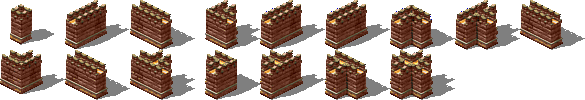
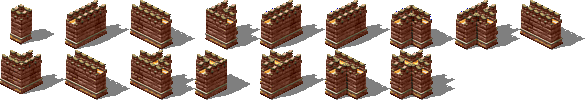
Animations Corrected

Changed region(s): [[0.3077, 0.51, 0.4615, 1.0]]

diff --git a/Base/Motor2D/MainDefense.cpp b/Base/Motor2D/MainDefense.cpp
@@ -25,14 +25,14 @@ bool MainDefense::Update(float dt)
 {
 	BROFILER_CATEGORY("Main Defense Update", Profiler::Color::SandyBrown);
 	
-	if (fromPlayer1 == true)
+	/*if (fromPlayer1 == true)
 	{
 		position = App->map->data.tower;
 	}
 	else
 	{
 		position = App->map->data.tower2;
-	}
+	}*/
 
 	if (fromPlayer1)
 	{
@@ -78,6 +78,8 @@ bool MainDefense::Update(float dt)
 	}
 	ChangeAnimation();
 
+	if (Current_Animation->Finished() == true)
+		Current_Animation = level1;
 
 	Building::Update(dt);
 
@@ -95,7 +97,7 @@ void MainDefense::CleanUp()
 void MainDefense::LoadAnimations(bool isPlayer1, string path)
 {
 	building = building->LoadAnimation(path.data(), (isPlayer1) ? "red_constructing" : "blue_constructing");
-	level1 = level1->LoadAnimation(path.data(), (isPlayer1) ? "red_idle" : "blue_idle");
+	level1 = level1->LoadAnimation(path.data(), (isPlayer1) ? "red_SW" : "blue_NE");
 
 	level1->speed = 10;
 	building->speed = 10;
@@ -104,5 +106,3 @@ void MainDefense::LoadAnimations(bool isPlayer1, string path)
 	level1->loop = false;
 	Current_Animation = building;
 }
-
-

diff --git a/Base/Motor2D/DefenseAOE.cpp b/Base/Motor2D/DefenseAOE.cpp
@@ -86,8 +86,11 @@ bool DefenseAoe::Update(float dt)
 			//LOG("Distance: %d", d);
 		}
 	}
-	Building::Update(dt);
 
+	if (Current_Animation->Finished() == true)
+		Current_Animation = level1;
+
+	Building::Update(dt);
 	
 	return true;
 }
@@ -110,12 +113,12 @@ bool DefenseAoe::Is_inRange(pair<int, int> pos, int &distance) {
 
 void DefenseAoe::LoadAnimations(bool isPlayer1, string path)
 {
-	building = building->LoadAnimation(path.data(), (isPlayer1) ? "red" : "blue");
-	level1 = level1->LoadAnimation(path.data(), (isPlayer1) ? "red" : "blue");
-	level1->speed = 3;
-	building->speed = 3;
+	building = building->LoadAnimation(path.data(), (isPlayer1) ? "soviet_aoe_build" : "allied_aoe_build");
+	level1 = level1->LoadAnimation(path.data(), (isPlayer1) ? "soviet_aoe_idle" : "allied_aoe_idle");
+	level1->speed = 1;
+	building->speed = 9;
 	building->loop = false;
-	level1->loop = false;
+	level1->loop = true;
 	Current_Animation = building;
 }
 

diff --git a/Base/Motor2D/EntityManager.cpp b/Base/Motor2D/EntityManager.cpp
@@ -61,12 +61,12 @@ bool EntityManager::Start()
 		string n = GetName(Entity::entityType(i));
 		n += "_anim.png";
 
-		if (i == Entity::entityType::TANKMAN || i == Entity::entityType::DEFENSE_AOE)
+		if (i == Entity::entityType::TANKMAN)
 			entitiesTextures[i] = nullptr;
 		else
 			entitiesTextures[i] = App->tex->Load(PATH(folder.data(), n.data()));
 	}
-	entitiesTextures[Entity::entityType::DEFENSE_AOE] = entitiesTextures[Entity::entityType::DEFENSE_TARGET];
+	//entitiesTextures[Entity::entityType::DEFENSE_AOE] = entitiesTextures[Entity::entityType::DEFENSE_TARGET];
 	return ret;
 }
 bool EntityManager::PreUpdate()
@@ -482,7 +482,7 @@ char* EntityManager::GetName(Entity::entityType type) {
 		return"Walls";
 		break;
 	case Entity::entityType::DEFENSE_AOE:
-		return"Tesla";
+		return"aoe";
 		break;
 	case Entity::entityType::DEFENSE_TARGET:
 		return"Tesla";

diff --git a/Base/Motor2D/Mines.cpp b/Base/Motor2D/Mines.cpp
@@ -93,6 +93,9 @@ bool Mines::Update(float dt)
 
 	ChangeAnimation();
 
+	if(Current_Animation->Finished() == true)
+		Current_Animation = level1;
+
 	Building::Update(dt);
 
 	return true;
@@ -110,10 +113,10 @@ void Mines::LoadAnimations(bool isPlayer1, string path)
 	building = building->LoadAnimation(path.data(), (isPlayer1) ? "red_constructing" : "blue_constructing");
 	level1 = level1->LoadAnimation(path.data(), (isPlayer1) ? "red_idle" : "blue_idle");
 	//level1->PushBack(building->GetLastAnimationFrame());// level1->LoadAnimation(&path[0], (!isPlayer1) ? "red" : "blue");
-	level1->speed = 10;
+	level1->speed = 3;
 	building->speed = 10;
 	building->loop = false;
-	level1->loop = false;
+	level1->loop = true;
 	Current_Animation = building;
 }
 

diff --git a/Base/Motor2D/Barracks.cpp b/Base/Motor2D/Barracks.cpp
@@ -89,6 +89,9 @@ bool Barracks::Update(float dt)
 
 	ChangeAnimation();
 
+	if (Current_Animation->Finished() == true)
+		Current_Animation = level1;
+
 	Building::Update(dt);
 
 	return true;
@@ -98,8 +101,8 @@ void Barracks::LoadAnimations(bool isPlayer1, string path) {
 	level1 = level1->LoadAnimation(&path[0], (isPlayer1) ? "red_idle" : "blue_idle");
 	building = building->LoadAnimation(&path[0], (isPlayer1) ? "red_constructing" : "blue_constructing");
 
-	level1->speed = 10;
-	building->speed = 10;
+	level1->speed = 5;
+	building->speed = 8;
 
 	building->loop = false;
 	Current_Animation = building;

diff --git a/Base/Motor2D/Player.cpp b/Base/Motor2D/Player.cpp
@@ -1243,13 +1243,13 @@ void Player::DoLogic(UI_Element* data)
 	case::UI_Element::Action::ACT_BUILD_AOE:
 		isBuilding = true;
 		type = Entity::entityType::DEFENSE_AOE;
-		collider.dimensions = { 1,1 };
+		collider.dimensions = { 2,2 };
 		offset = { 60,30 };
 		break;
 
 	case::UI_Element::Action::ACT_BUILD_TARGET:
 		isBuilding = true;
-		type = Entity::entityType::DEFENSE_TARGET;
+		type = Entity::entityType::MAIN_DEFENSE;
 		collider.dimensions = { 2,2 };
 		break;
 

diff --git a/Base/Motor2D/Entity.h b/Base/Motor2D/Entity.h
@@ -120,6 +120,7 @@ public:
 
 	// Damage animation does not care about levels(?)
 	virtual void ChangeAnimation() {
+
 		/*if (health <= 0)
 			Current_Animation = destroyed;
 
@@ -223,7 +224,7 @@ public:
 				return"Walls";
 				break;
 			case Entity::entityType::DEFENSE_AOE:
-				return"Tesla";
+				return"aoe";
 				break;
 			case Entity::entityType::DEFENSE_TARGET:
 				return"Tesla";
